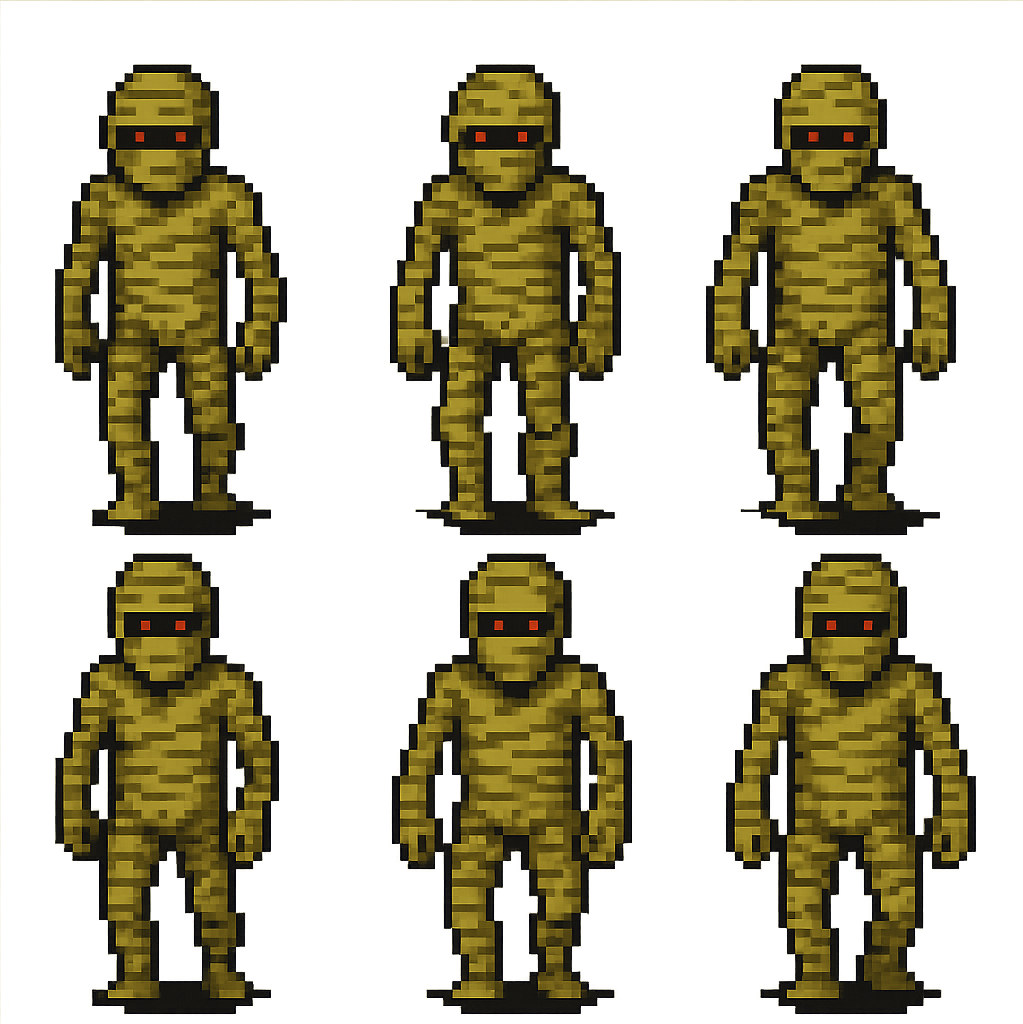
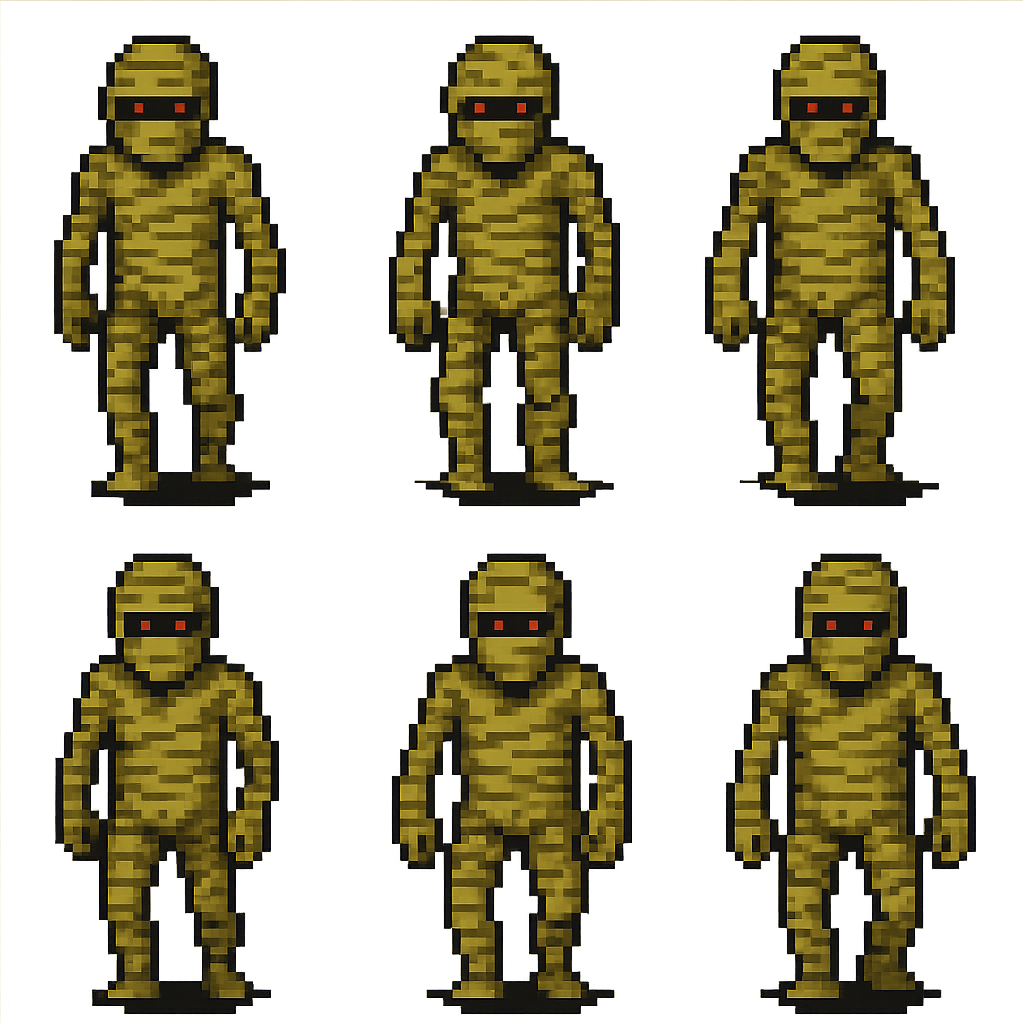
fix: mummy position

Changed region(s): [[0.6667, 0.0312, 0.9394, 0.5312], [0.3636, 0.0312, 0.6061, 0.5312], [0.0303, 0.0312, 0.303, 0.5312]]

diff --git a/frontend/src/components/Game/Zombie.tsx b/frontend/src/components/Game/Zombie.tsx
@@ -57,7 +57,8 @@ const Zombie: React.FC<ZombieProps> = ({ zombie, isAttacked }) => {
         {isAttacked && (
             <div
                 style={{
-                    position: 'relative',
+                    position: 'absolute',
+                    top: -14,
                     width: DISPLAY_WIDTH,
                     height: 8,
                     background: '#444',
@@ -83,7 +84,7 @@ const Zombie: React.FC<ZombieProps> = ({ zombie, isAttacked }) => {
                     height: DISPLAY_HEIGHT,
                     position: 'relative',
                     marginBottom: 2,
-                    overflow: zombie.type === 'mummy' ? 'hidden' : 'visible',
+                    overflow: 'visible',
                 }}
             >
                 {zombie.type === 'zombie' && (
@@ -114,10 +115,10 @@ const Zombie: React.FC<ZombieProps> = ({ zombie, isAttacked }) => {
                             backgroundPosition: `${bgX}px ${bgY}px`,
                             backgroundSize: `${SPRITE_WIDTH}px ${SPRITE_HEIGHT}px`,
                             imageRendering: 'pixelated',
-                            transform: 'scale(0.15, 0.10)',
+                            transform: 'scale(0.16, 0.16)',
                             position: 'absolute',
                             left: '50%',
-                            top: 0,
+                            top: -10,
                             transformOrigin: 'top center',
                             translate: '-50%',
                             pointerEvents: 'none',
